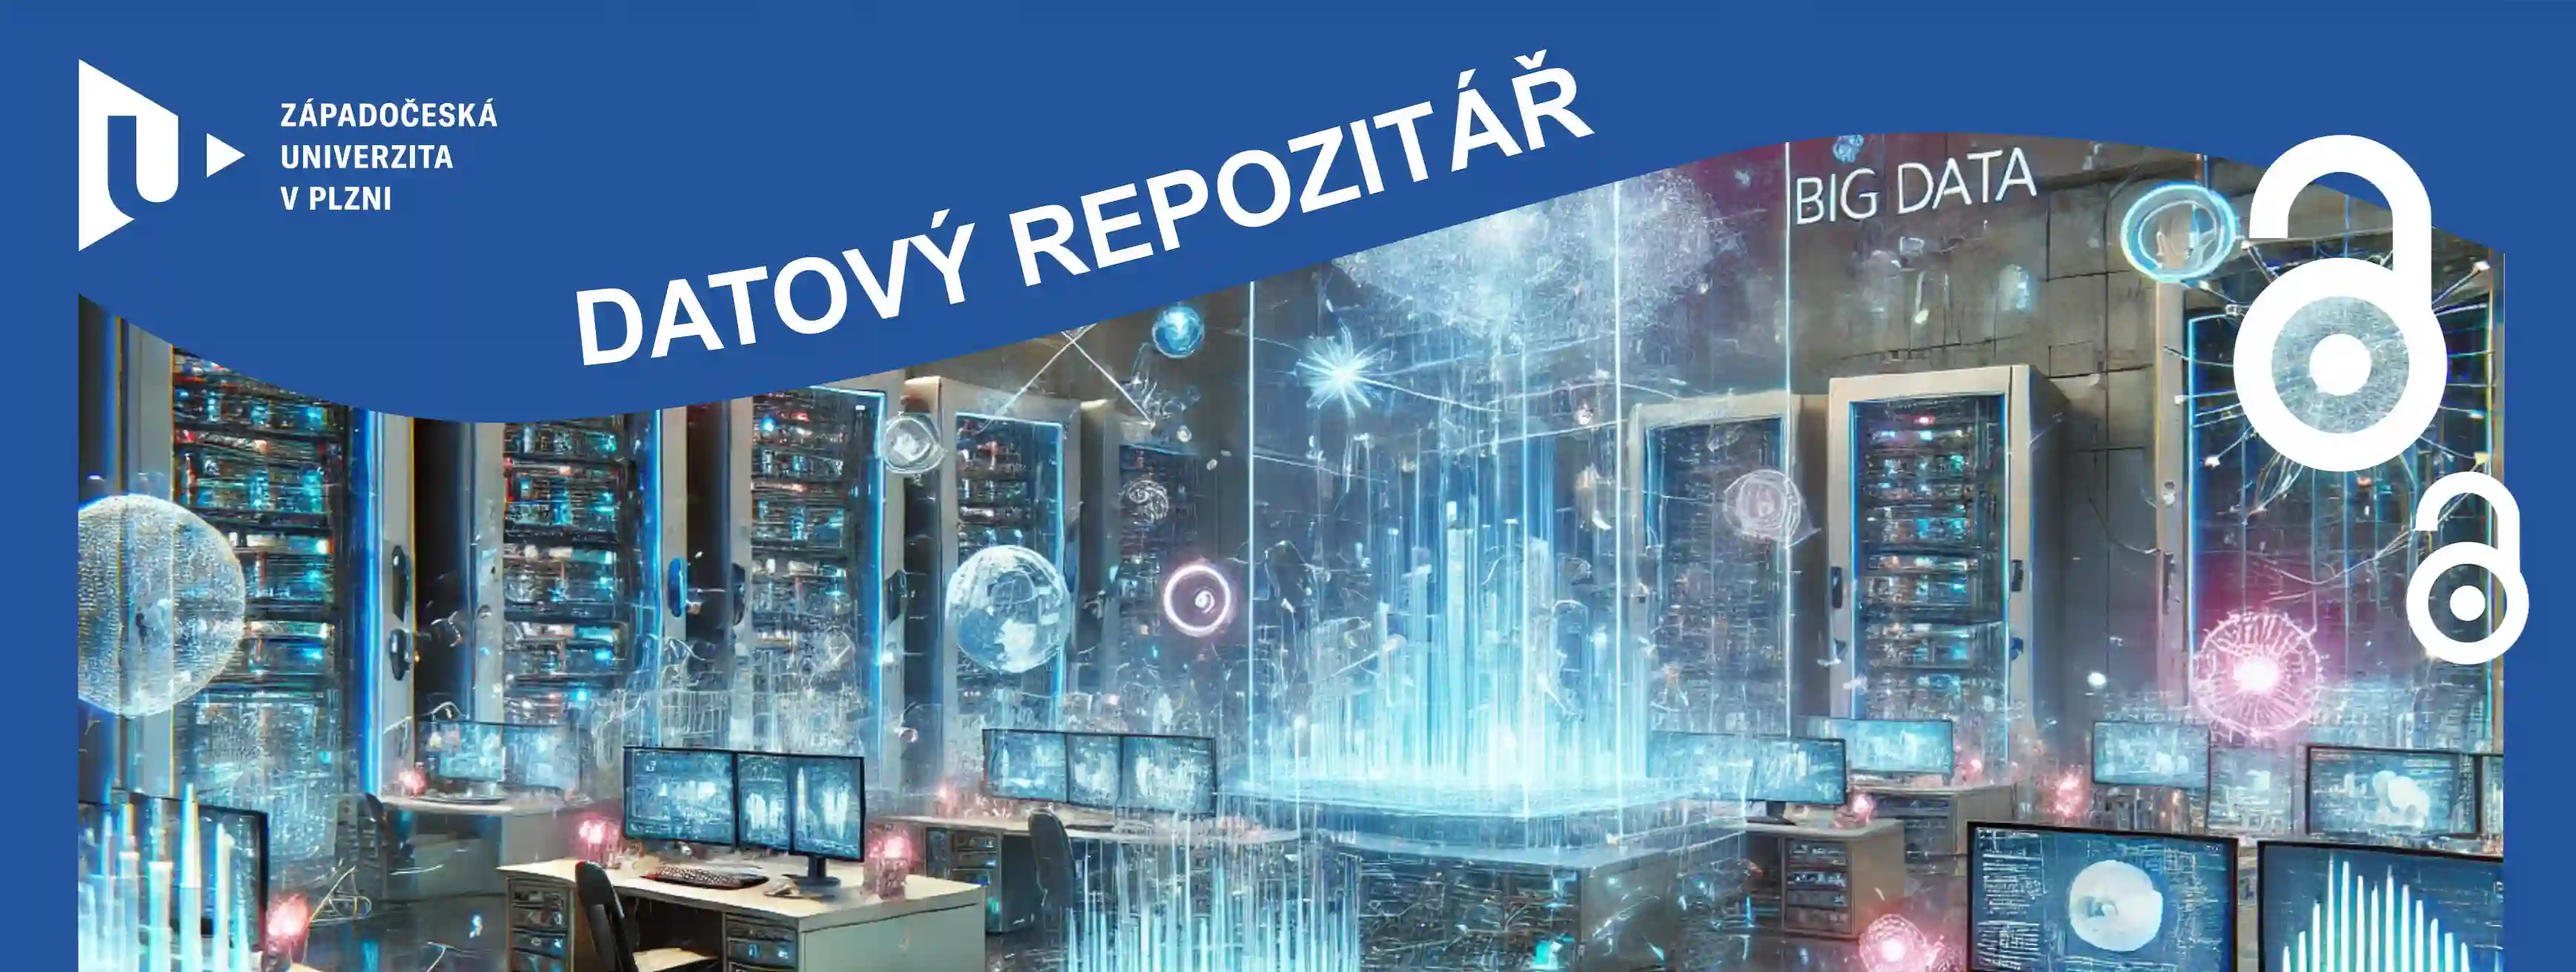
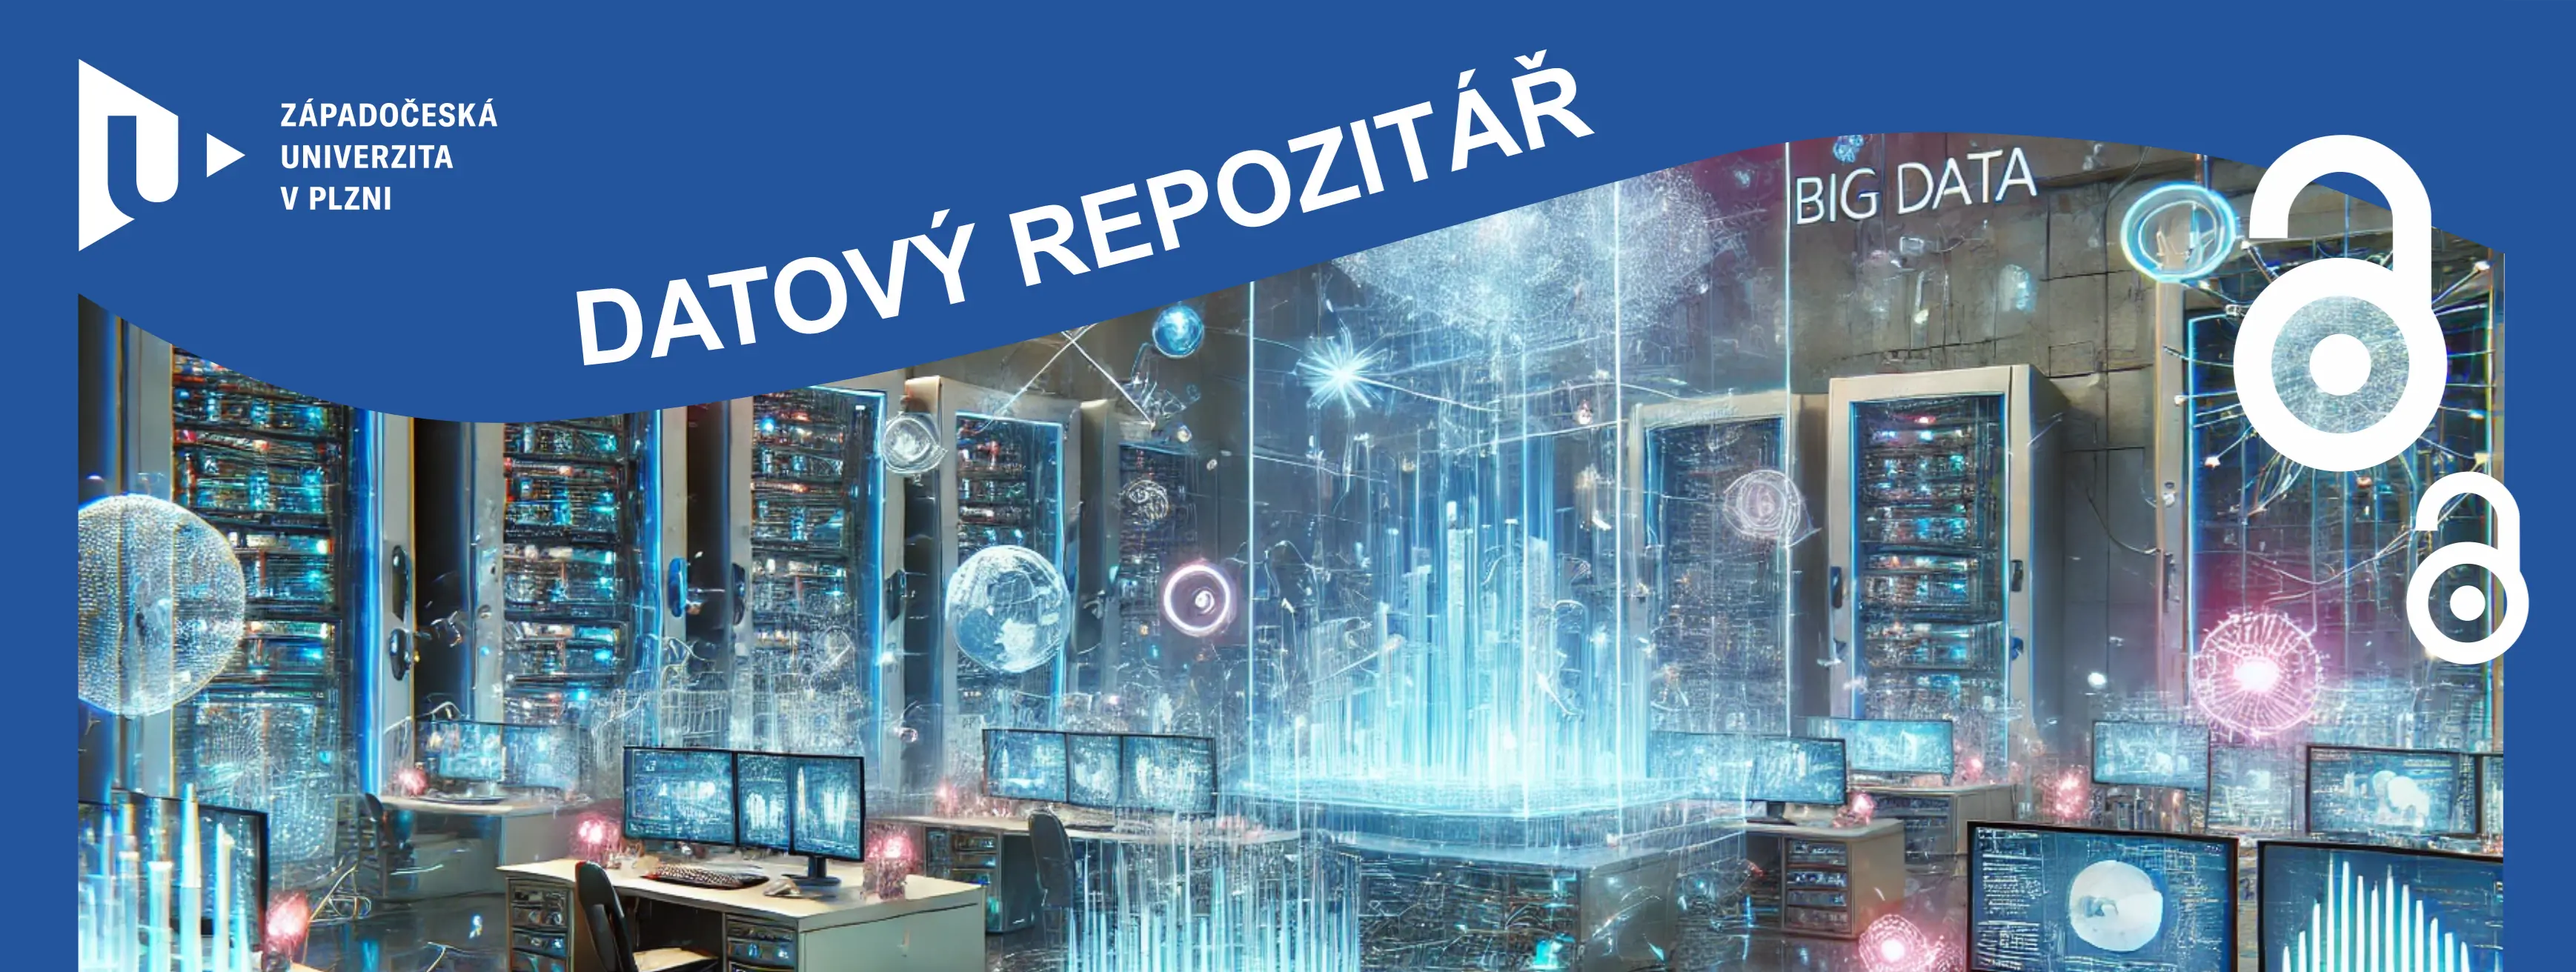
Changed default ZCU blue color according to home-page image

diff --git a/src/styles/_custom_variables.scss b/src/styles/_custom_variables.scss
@@ -1,5 +1,5 @@
 :root {
-  --lt-zcu-pub-blue: #23539B;
+  --lt-zcu-pub-blue: #23559d;
   --lt-zcu-pub-blue-hover: #1a3d71 ;
   --lt-zcu-pub-blue-lighter: #d5e6ff;
 
